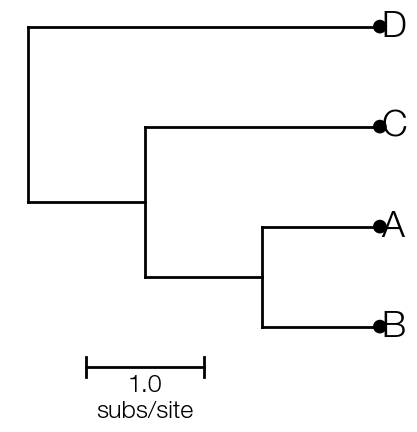
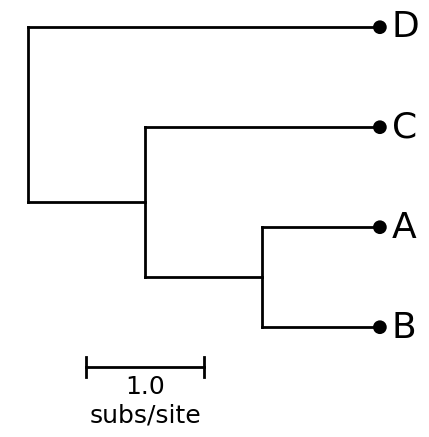
Refresh Sphinx pages and tutorial assets

Changed region(s): [[0.0624, 0.0602, 0.9664, 0.7824], [0.1871, 0.8125, 0.4988, 0.9931], [0.8417, 0.0301, 0.9976, 0.0903]]

diff --git a/docs/tutorials/basic-tree.py b/docs/tutorials/basic-tree.py
@@ -17,7 +17,7 @@ gs = GridSpec(1,1)
 ax = plt.subplot(gs[0])
 
 ll.plot_tree(ax)
-ll.plot_text(ax, size = 26)
+ll.plot_text(ax, xCoordinateFxn=lambda k: k.x+0.1, size = 26)
 ll.plot_points(ax)
 
 bt_utils.plot_scale_bar(ax, xy = (0.5, 0.1), tree = ll, style = 'fancy', textKwargs={'fontsize': 18})

diff --git a/docs/source/getting_started.rst b/docs/source/getting_started.rst
@@ -12,15 +12,6 @@ Install ``baltic`` from PyPI:
 
 The package depends on ``numpy`` and ``matplotlib``. If you plan to load JSON trees from remote URLs, install ``requests`` as well.
 
-Import convention
------------------
-
-By convention, ``baltic`` is imported as ``bt`` and tree objects are often named ``ll`` in examples.
-
-.. code-block:: python
-
-   import baltic as bt
-
 Create a tree from a Newick string
 ----------------------------------
 
@@ -42,10 +33,8 @@ Load trees from files
 
 The main loader functions are:
 
-- ``bt.load_newick(...)``
-- ``bt.load_nexus(...)``
-- ``bt.load_posterior_nexus(...)``
-- ``bt.load_JSON(...)``
+- ``bt.load_newick(...)``: for Newick files
+- ``bt.load_nexus(...)``: for Nexus files (e.g. from BEAST analyses)
 
 Examples:
 
@@ -55,7 +44,6 @@ Examples:
 
    newick_tree = bt.io.load_newick("tree.nwk", treeType="divergence")
    nexus_tree = bt.io.load_nexus("tree.nex", treeType="time")
-   json_tree, json_meta = bt.io.load_JSON("auspice.json", treeType="time")
 
 If sampling dates are encoded in tip labels, use ``tipRegex`` and ``dateFmt`` to extract them:
 
@@ -88,7 +76,17 @@ Once loaded, a ``Tree`` exposes helpers for inspection and traversal:
 Plot a tree
 -----------
 
-``baltic`` integrates directly with ``matplotlib``.
+``baltic`` integrates directly with ``matplotlib`` for plotting functionality.
+
+``baltic`` plotting functions always require a ``matplotlib`` axis object, which can be created
+with ``plt.subplots()`` or similar functions. They also allow users to pass in styling
+arguments (e.g. for colors, line widths, marker sizes) and callback functions
+(e.g. for filtering, sorting, coordinate adjustments) to customize the plot.
+
+Styling functions can be passed as ``baltic`` keyword arguments (e.g. ``colorFxn``, ``sizeFxn``,
+``lineWidthFxn``), or as standard ``matplotlib`` keyword arguments (e.g. ``color``, ``markersize``,
+``linewidth``), which get passed onward as keyword arguments to the underlying ``matplotlib``
+plotting functions.
 
 .. code-block:: python
 
@@ -98,8 +96,13 @@ Plot a tree
    ll = bt.io.load_newick("tree.nwk", treeType="divergence")
 
    fig, ax = plt.subplots(figsize=(8, 10))
+   # Plot the branches using `plot_tree`
    ll.plot_tree(ax)
+   # Plot the tip labels using `plot_points`
+   #   in this case, we use a lambda to filter for leaf nodes (tips) and plot their names
    ll.plot_text(ax, targetFxn=lambda k: k.is_leaf())
+   # Plot the points for the tips using `plot_points`
+   ll.plot_points(ax)
 
    ax.set_axis_off()
    fig.tight_layout()
@@ -114,6 +117,31 @@ Useful plotting helpers include:
 - ``plot_exploded_tree()`` for trait-partitioned layouts
 
 The plotting ``treeType`` argument supports ``"rectangular"``, ``"circular"``, and ``"unrooted"`` layouts.
+
+The ``baltic`` way
+------------------
+
+By convention, ``baltic`` is imported as ``bt`` and tree objects are often named ``ll`` (for linked-list) in examples.
+
+.. code-block:: python
+
+   import baltic as bt
+   ll = bt.make_tree("((A:1.0,B:2.0):1.0,C:3.0);", treeType="divergence")
+
+By convention, ``baltic`` also uses Python lambda functions in many places, especially for short filtering, sorting, coordinate, and styling callbacks. These can always be replaced with regular named functions, but ``baltic`` tends to use lambdas where possible because they are succinct and usually easy to read in context.
+
+.. code-block:: python
+
+   # Example of a lambda for filtering tips
+   # This function returns a list of tips whose names start with "A"
+   tips = ll.get_external(lambda k: k.name.startswith("A"))
+
+   # The same function as a regular named function
+   # these two code blocks do the same thing, but the lambda is more concise
+   # and fits the baltic convention
+   def filter_tips_starting_with_A(node):
+       return node.name.startswith("A")
+   tips = ll.get_external(filter_tips_starting_with_A)
 
 API reference
 -------------

diff --git a/docs/source/index.rst b/docs/source/index.rst
@@ -21,6 +21,22 @@ New users should begin with :doc:`getting_started`, then use the API reference p
    getting_started
    publications
 
+Source code
+-----------
+The source code is available on GitHub: `dev-doc branch <https://github.com/evogytis/baltic/tree/dev-doc>`_.
+
+Contributing
+------------
+``baltic`` is an open source/science tool and very open to contributions that fix and/or expand its utility. While phylogenetc data manipulation is one aspect of baltic it is understood that visualising such data will be the main application and as such the design philosophy of baltic follows closely that of ``matplotlib`` - functionality in ``baltic`` itself should be basic and generally applicable with more involved visualisations combining elements thereof. The most sought-after contributions are therefore bug fixes, code to manipulate trees and the occasional novel visualisation technique.
+
+Note that baltic follows and enforces the `Contributor Covenant Code of Conduct <https://www.contributor-covenant.org/>`_.
+
+
+If you'd like to contribute a bug fix feel free to start a pull request outlining the problem and its solution.
+For adding code for a new tree manipulation function or for a novel visualisation please open an issue first and describe the goal and suggested approach first.
+Even if suggested manipulations/visualisations don't make it into baltic's code base (*e.g.* if the application isn't broad) there will be room to share it under examples.
+
+
 .. toctree::
    :hidden:
    :maxdepth: 3

diff --git a/docs/source/samogitia.rst b/docs/source/samogitia.rst
@@ -2,8 +2,15 @@
    :hidden:
    :maxdepth: 3
 
-``samogitia``
-=============
+.. image:: _static/coa_samogitia.jpg
+   :align: center
+   :alt: Samogitia coat of arms
+
+**WIP Note:** This module is still in development and subject to change. The API may not be stable yet.
+
+``samogitia`` -- processing posterior tree distributions
+=========================================================
 
 .. automodule:: baltic.samogitia
     :members:
+    :member-order: alphabetical

diff --git a/docs/source/curonia.rst b/docs/source/curonia.rst
@@ -2,8 +2,13 @@
    :hidden:
    :maxdepth: 3
 
-``curonia``
-===========
+.. image:: _static/coa_curonia.jpg
+   :align: center
+   :alt: Curonia coat of arms
+
+``curonia`` -- composite plots accompanying tree visualizations
+===============================================================
 
 .. automodule:: baltic.curonia
     :members:
+    :member-order: alphabetical

diff --git a/docs/source/reticulation.rst b/docs/source/reticulation.rst
@@ -5,5 +5,7 @@
 ``Reticulation``
 ===================
 
-.. automodule:: baltic.reticulation
+.. autoclass:: baltic.reticulation.Reticulation
     :members:
+    :member-order: alphabetical
+    :show-inheritance:

diff --git a/docs/source/branchLike.rst b/docs/source/branchLike.rst
@@ -5,5 +5,7 @@
 ``BranchLike``
 ===================
 
-.. automodule:: baltic.branchLike
+.. autoclass:: baltic.branchLike.BranchLike
     :members:
+    :member-order: alphabetical
+    :show-inheritance:

diff --git a/docs/source/clade.rst b/docs/source/clade.rst
@@ -5,5 +5,7 @@
 ``Clade``
 ===================
 
-.. automodule:: baltic.clade
+.. autoclass:: baltic.clade.Clade
     :members:
+    :member-order: alphabetical
+    :show-inheritance:

diff --git a/docs/source/leaf.rst b/docs/source/leaf.rst
@@ -5,5 +5,7 @@
 ``Leaf``
 ===================
 
-.. automodule:: baltic.leaf
+.. autoclass:: baltic.leaf.Leaf
     :members:
+    :member-order: alphabetical
+    :show-inheritance:

diff --git a/docs/source/node.rst b/docs/source/node.rst
@@ -5,5 +5,7 @@
 ``Node``
 ===================
 
-.. automodule:: baltic.node
+.. autoclass:: baltic.node.Node
     :members:
+    :member-order: alphabetical
+    :show-inheritance:

diff --git a/docs/source/tree.rst b/docs/source/tree.rst
@@ -5,5 +5,5 @@
 ``Tree``
 ========
 
-.. automodule:: baltic.tree
+.. autoclass:: baltic.tree.Tree
     :members:

diff --git a/docs/source/bt_utils.rst b/docs/source/bt_utils.rst
@@ -7,3 +7,4 @@
 
 .. automodule:: baltic.bt_utils
     :members:
+    :member-order: alphabetical
